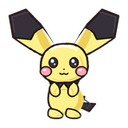
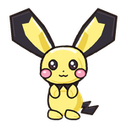
feat(pet): align Pikachu Level 1 Pichu ear shape, lightning tail, and palette with canon reference

Changed region(s): [[0.0625, 0.0625, 0.9375, 0.9688]]

diff --git a/scripts/build-pikachu-forms.py b/scripts/build-pikachu-forms.py
@@ -32,8 +32,8 @@ FORMS = {
     "pichu": {
         "shapeKey": "pichu",
         "name": "Pichu Spark",
-        "fur": ["#c29f2e", "#edd05a", "#fff18a", "#fffde8"],
-        "cheeks": ["#ba3d5d", "#ea7e9a", "#f7a8bd", "#ffebf2"],
+        "fur": ["#cc9c1e", "#edd046", "#fff085", "#fffde8"],
+        "cheeks": ["#be355a", "#e87896", "#f7a4bc", "#ffebf2"],
     },
     "classic": {
         "shapeKey": "classic",
@@ -110,7 +110,7 @@ MOTION = {
     "gorochu": (.7, .28, 1.2, .7, 2.5, .3),
 }
 TAIL_TIPS = {
-    "pichu": (136, 162), "classic": (174, 106), "raichu": (174, 33),
+    "pichu": (144, 166), "classic": (174, 106), "raichu": (174, 33),
     "alolan-raichu": (155, 185), "gigantamax": (138, 22),
     "mega-raichu-x": (179, 81), "mega-raichu-y": (174, 25),
     "concept-white-belly": (150, 117), "concept-long-tail": (174, 70),
@@ -225,9 +225,11 @@ def tail(ink, form_id, fur, phase, row):
     p = Ink(ink.image, tail_transform)
     light, shade = fur[2], fur[1]
     if form_id == "pichu":
-        p.path([("M", 96, 160), ("L", 118, 150), ("L", 114, 160), ("L", 136, 162),
-                ("L", 126, 174), ("L", 110, 167), ("L", 96, 173), ("Z",)], DARK, PIKA_LINE, 2.0)
-        p.path([("M", 115, 153), ("L", 128, 162), ("L", 121, 170)], None, "#4a3c46", 1.2)
+        # Pichu canon tail: cute zigzag lightning tail (sharp segmented black lightning bolt)
+        p.path([("M", 96, 160), ("L", 110, 153), ("L", 106, 160), ("L", 130, 156),
+                ("L", 124, 166), ("L", 143, 163), ("L", 133, 177), ("L", 115, 174),
+                ("L", 120, 165), ("L", 102, 167), ("L", 96, 173), ("Z",)], DARK, PIKA_LINE, 2.0)
+        p.path([("M", 108, 156), ("L", 128, 159), ("L", 123, 168), ("L", 137, 165)], None, "#4a3c46", 1.2)
     elif form_id in ("classic", "concept-white-belly", "concept-long-tail", "gigantamax"):
         if form_id == "gigantamax":
             points = [(111,166),(145,150),(137,119),(159,120),(149,91),(174,90),
@@ -312,34 +314,33 @@ def ears(ink, form_id, fur, phase, row):
             return ink.transform(85+side*(x-85), y + fold*max(0, (72-y)/50))
         p = Ink(ink.image, transform)
         if form_id == "pichu":
+            # Pichu ear: Wide kite/diamond ear with prominent black outer border and yellow interior
             ear_full = [
-                ("M", 97, 78),
-                ("Q", 106, 58, 122, 36),
-                ("L", 146, 12),
-                ("L", 172, 22),
-                ("L", 166, 56),
-                ("Q", 140, 75, 114, 87),
+                ("M", 96, 78),
+                ("Q", 103, 56, 117, 34),
+                ("L", 142, 6),
+                ("L", 172, 18),
+                ("L", 168, 56),
+                ("Q", 140, 75, 113, 87),
                 ("Z",)
             ]
-            p.path(ear_full, fur[2], PIKA_LINE, 2.2)
-            p.path([("M", 102, 68), ("Q", 115, 46, 138, 22)], None, fur[3], 2.2)
-            p.path([("M", 103, 76),
-                    ("Q", 111, 58, 121, 42),
-                    ("L", 129, 48),
-                    ("Q", 125, 68, 112, 81),
-                    ("Z",)], fur[1], None)
-            ear_black_tip = [
-                ("M", 119, 40),
-                ("L", 146, 12),
-                ("L", 172, 22),
-                ("L", 166, 56),
-                ("L", 138, 59),
-                ("L", 133, 49),
-                ("L", 127, 44),
+            p.path(ear_full, DARK, PIKA_LINE, 2.2)
+            # Inside yellow inner diamond with sharp notch
+            ear_inner = [
+                ("M", 102, 74),
+                ("Q", 109, 56, 120, 39),
+                ("L", 137, 18),
+                ("L", 142, 28),
+                ("L", 153, 30),
+                ("L", 147, 48),
+                ("Q", 132, 68, 112, 80),
                 ("Z",)
             ]
-            p.path(ear_black_tip, DARK, PIKA_LINE, 2.0)
-            p.path([("M", 142, 16), ("L", 168, 24), ("L", 164, 48)], None, "#4e424c", 1.2)
+            p.path(ear_inner, fur[2], None)
+            p.path([("M", 105, 68), ("Q", 117, 46, 135, 23)], None, fur[3], 2.2)
+            p.path([("M", 104, 75), ("Q", 113, 58, 120, 42), ("L", 126, 48), ("Q", 122, 68, 112, 80), ("Z",)], fur[1], None)
+            # Subtle highlight on top edge of black border
+            p.path([("M", 140, 10), ("L", 169, 20), ("L", 165, 50)], None, "#4e424c", 1.2)
         elif form_id == "raichu":
             p.path([("M",104,85),("C",112,67,113,42,139,28),
                     ("C",128,44,136,48,139,55),("C",147,71,124,80,121,66),
